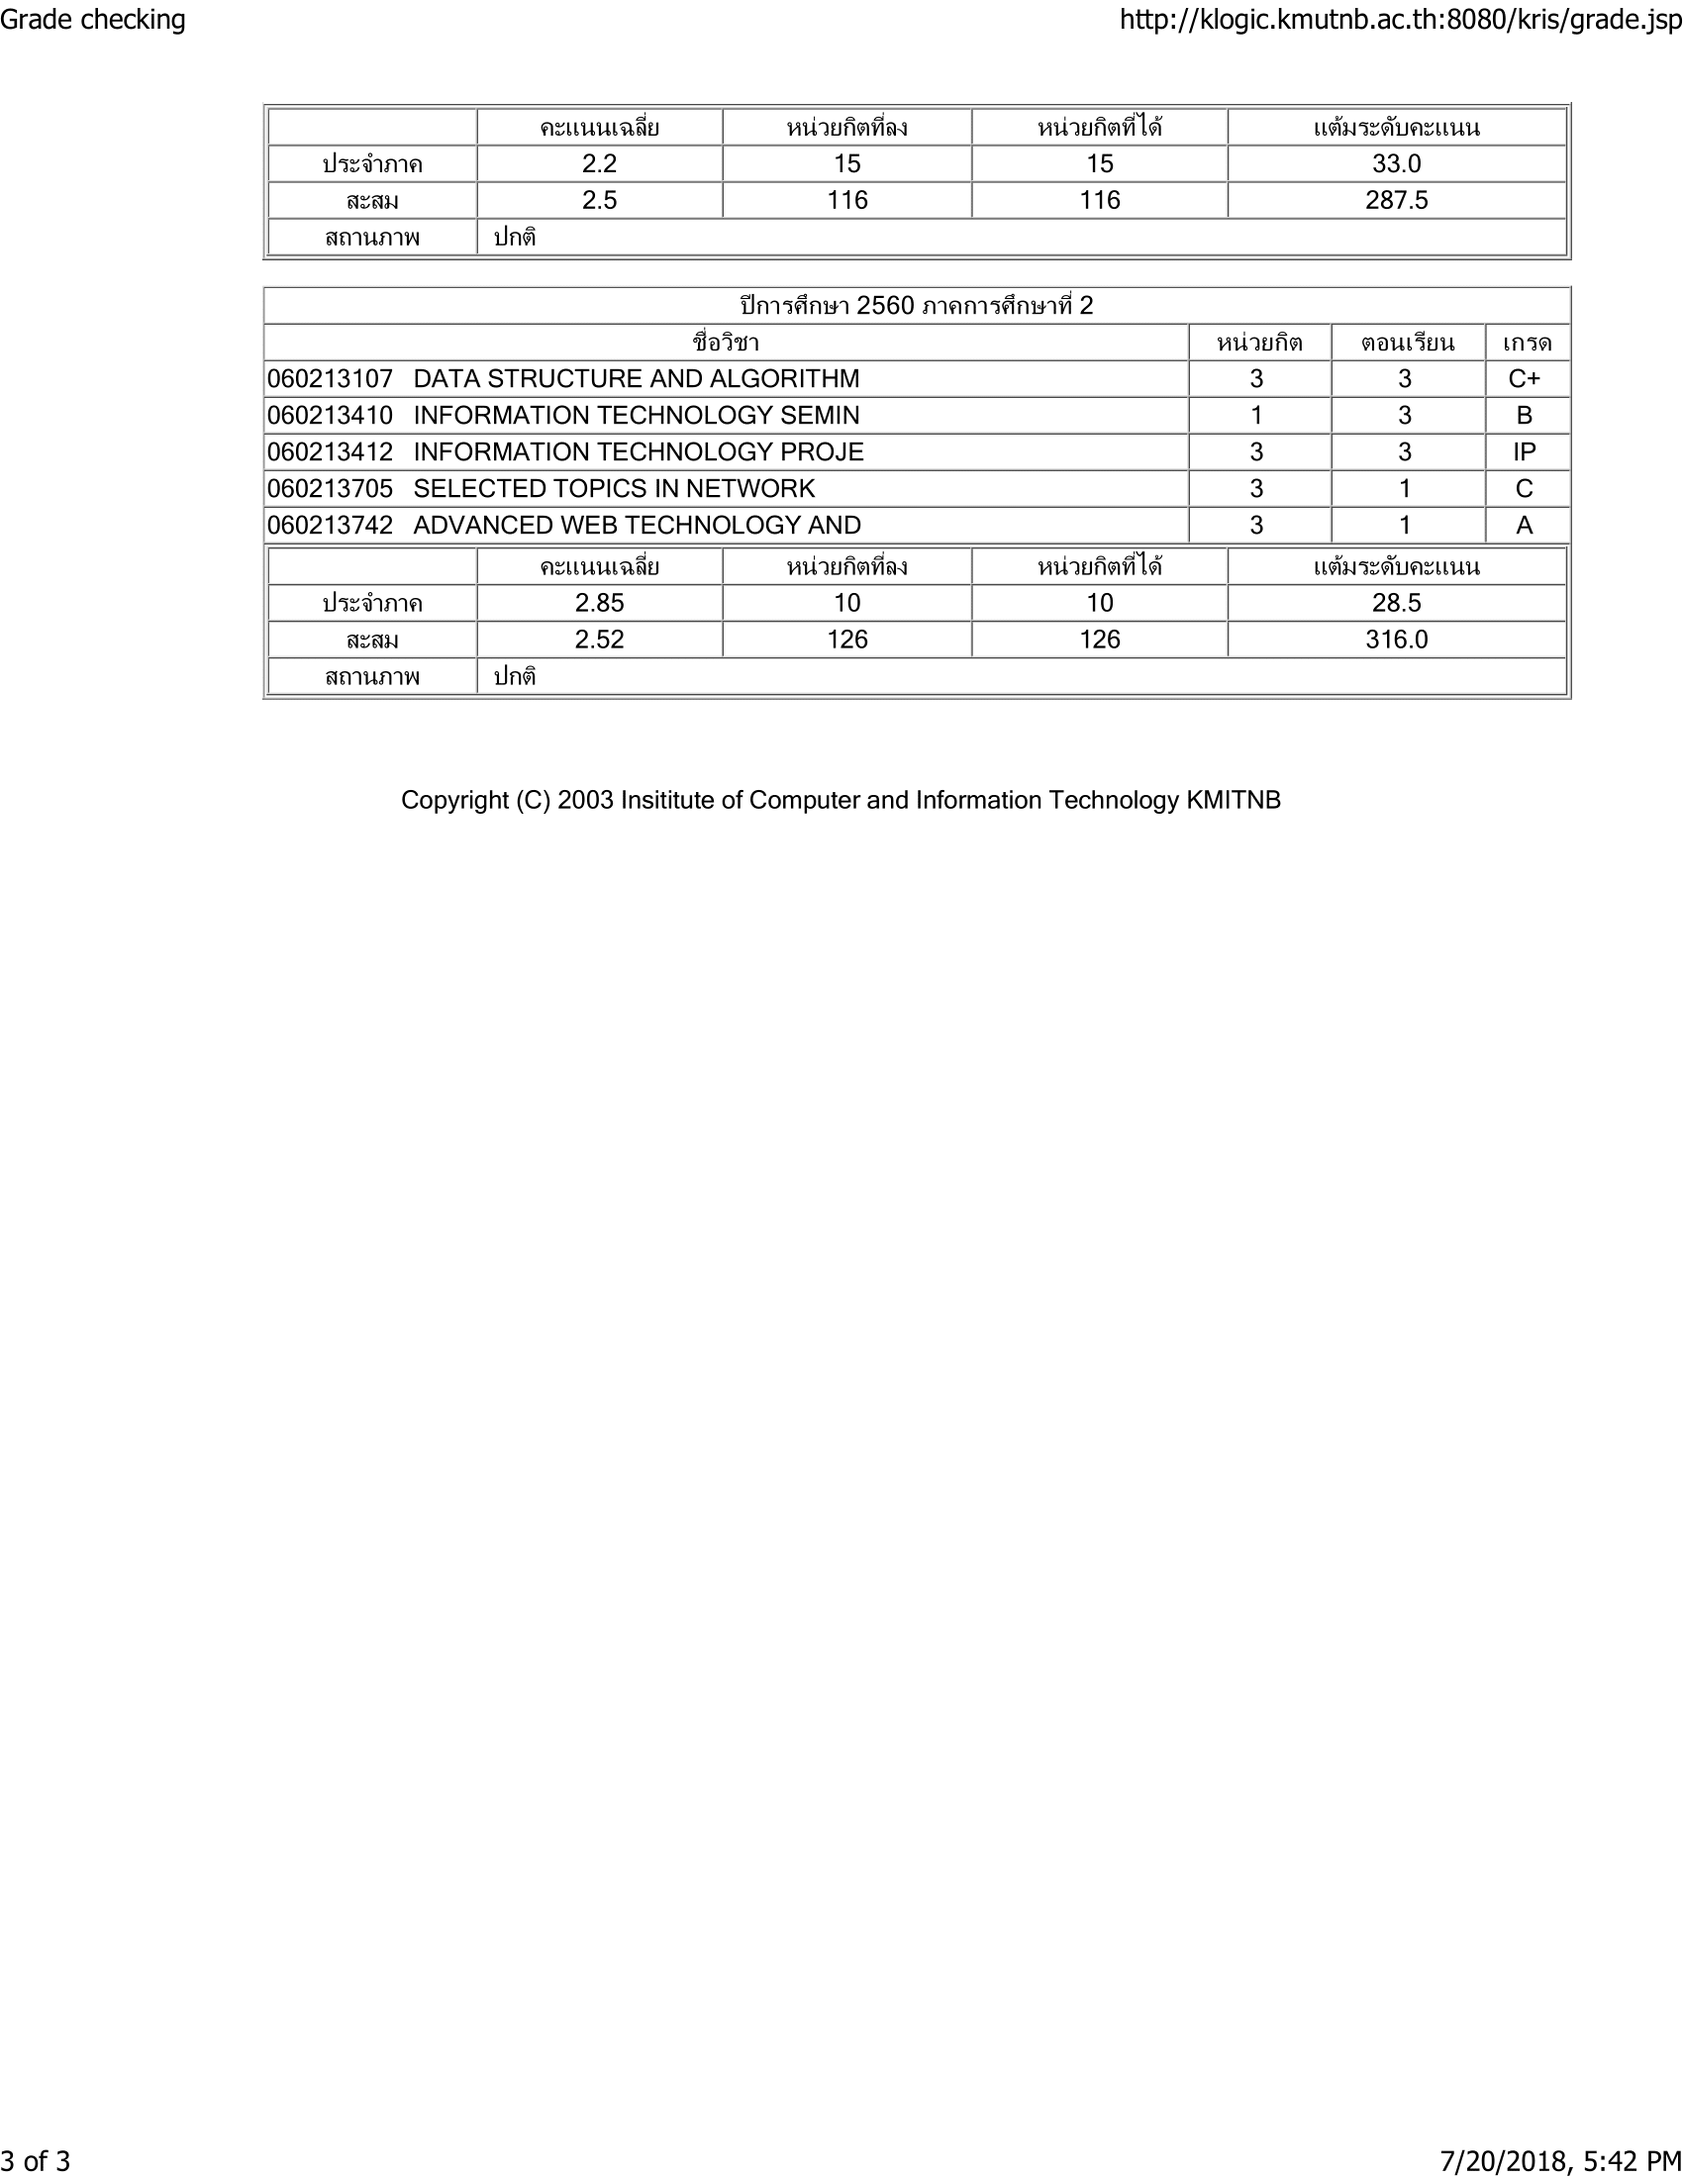
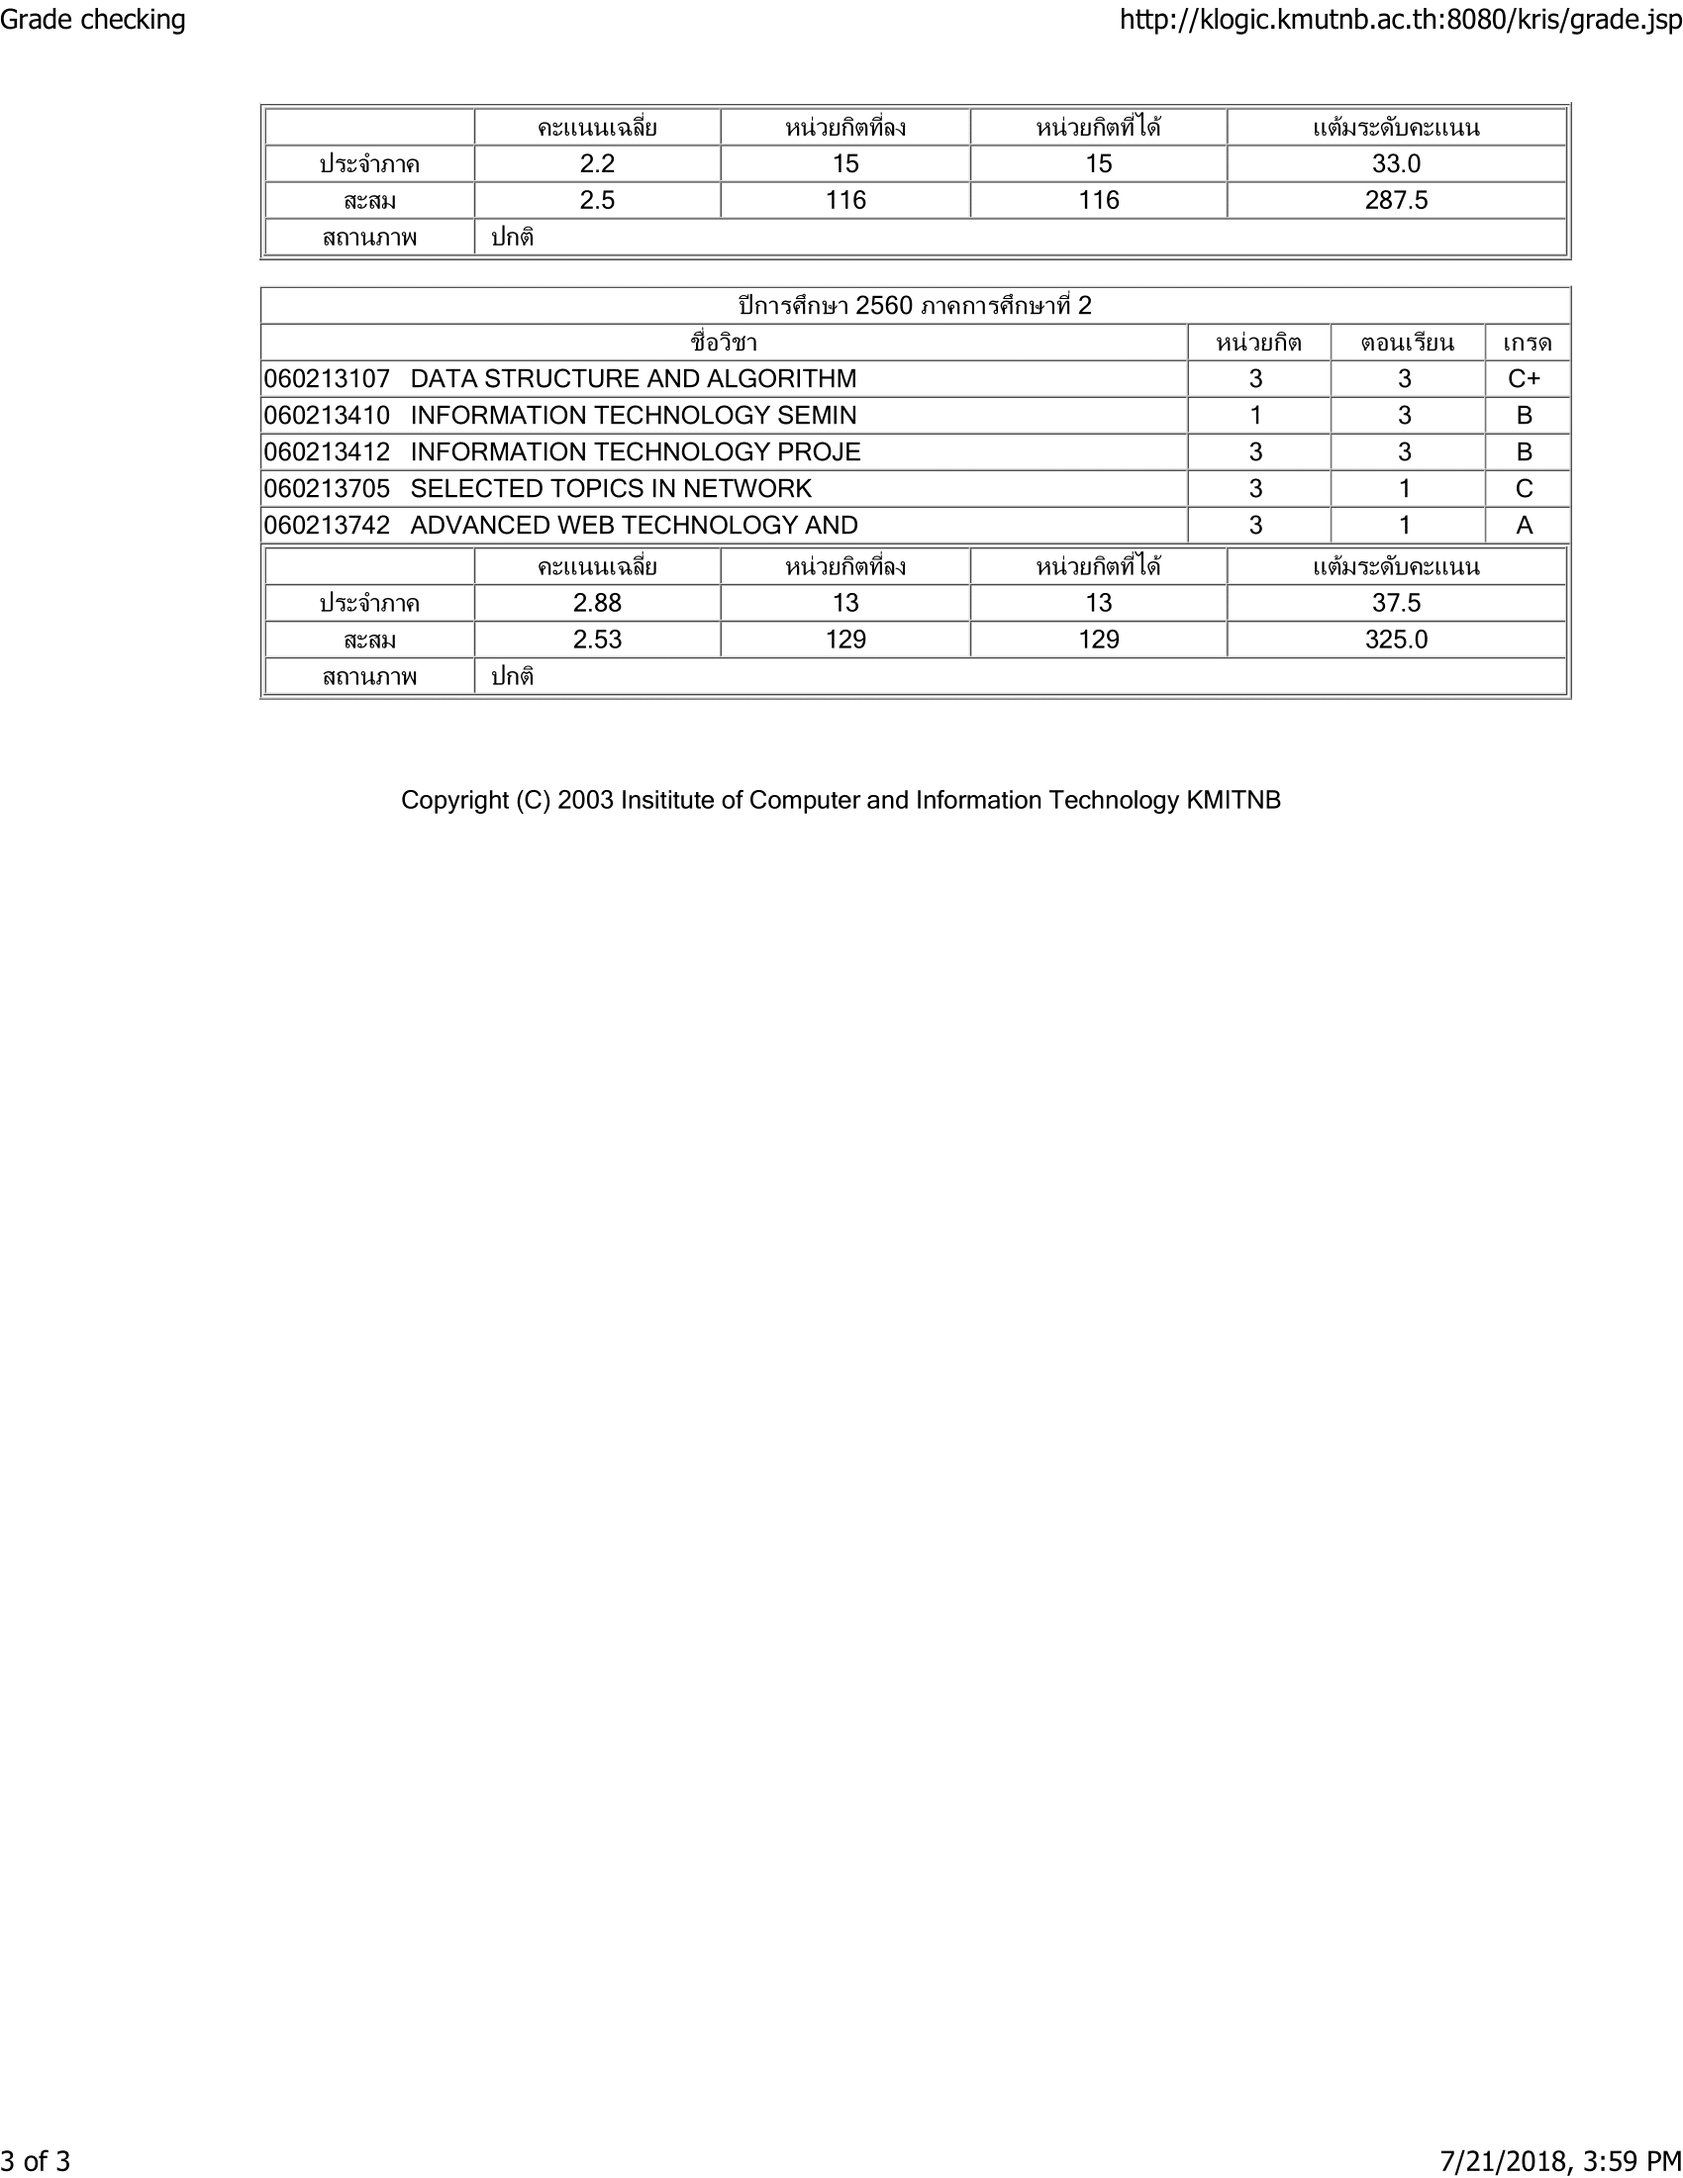
Edit grade every page

diff --git a/src/components/HelloWorld.vue b/src/components/HelloWorld.vue
@@ -89,7 +89,7 @@
                       <td  valign="top" align="right">2014 - 2018 : </td>
                       <td>Bachelor of Technology, Major in Information Technology <br> from
 		                      King Mongkut’s University of Technology North Bangkok <br>
-		                      GPA 2.52 <p style="margin-bottom:-15px"></p>
+		                      GPA 2.53 <p style="margin-bottom:-15px"></p>
                       </td>
                     </tr>
                     <tr>
@@ -231,7 +231,7 @@
                       <td  valign="top" align="right" width="240px">ปีการศึกษา 2557 - 2560 : </td>
                       <td >ระดับปริญญาตรี สาขาวิชาเทคโนโลยีสารสนเทศ <br>แขนงวิชาเทคโนโลยีเครือข่าย   
 		                      คณะเทคโนโลยีและการจัดการอุตสาหกรรม <br>มหาวิทยาลัยเทคโนโลยีพระจอมเกล้าพระนครเหนือ <br>
-		                      ด้วยเกรดเฉลี่ย 2.52 <p style="margin-bottom:-15px"></p>
+		                      ด้วยเกรดเฉลี่ย 2.53 <p style="margin-bottom:-15px"></p>
                       </td>
                     </tr>
                     <tr>
